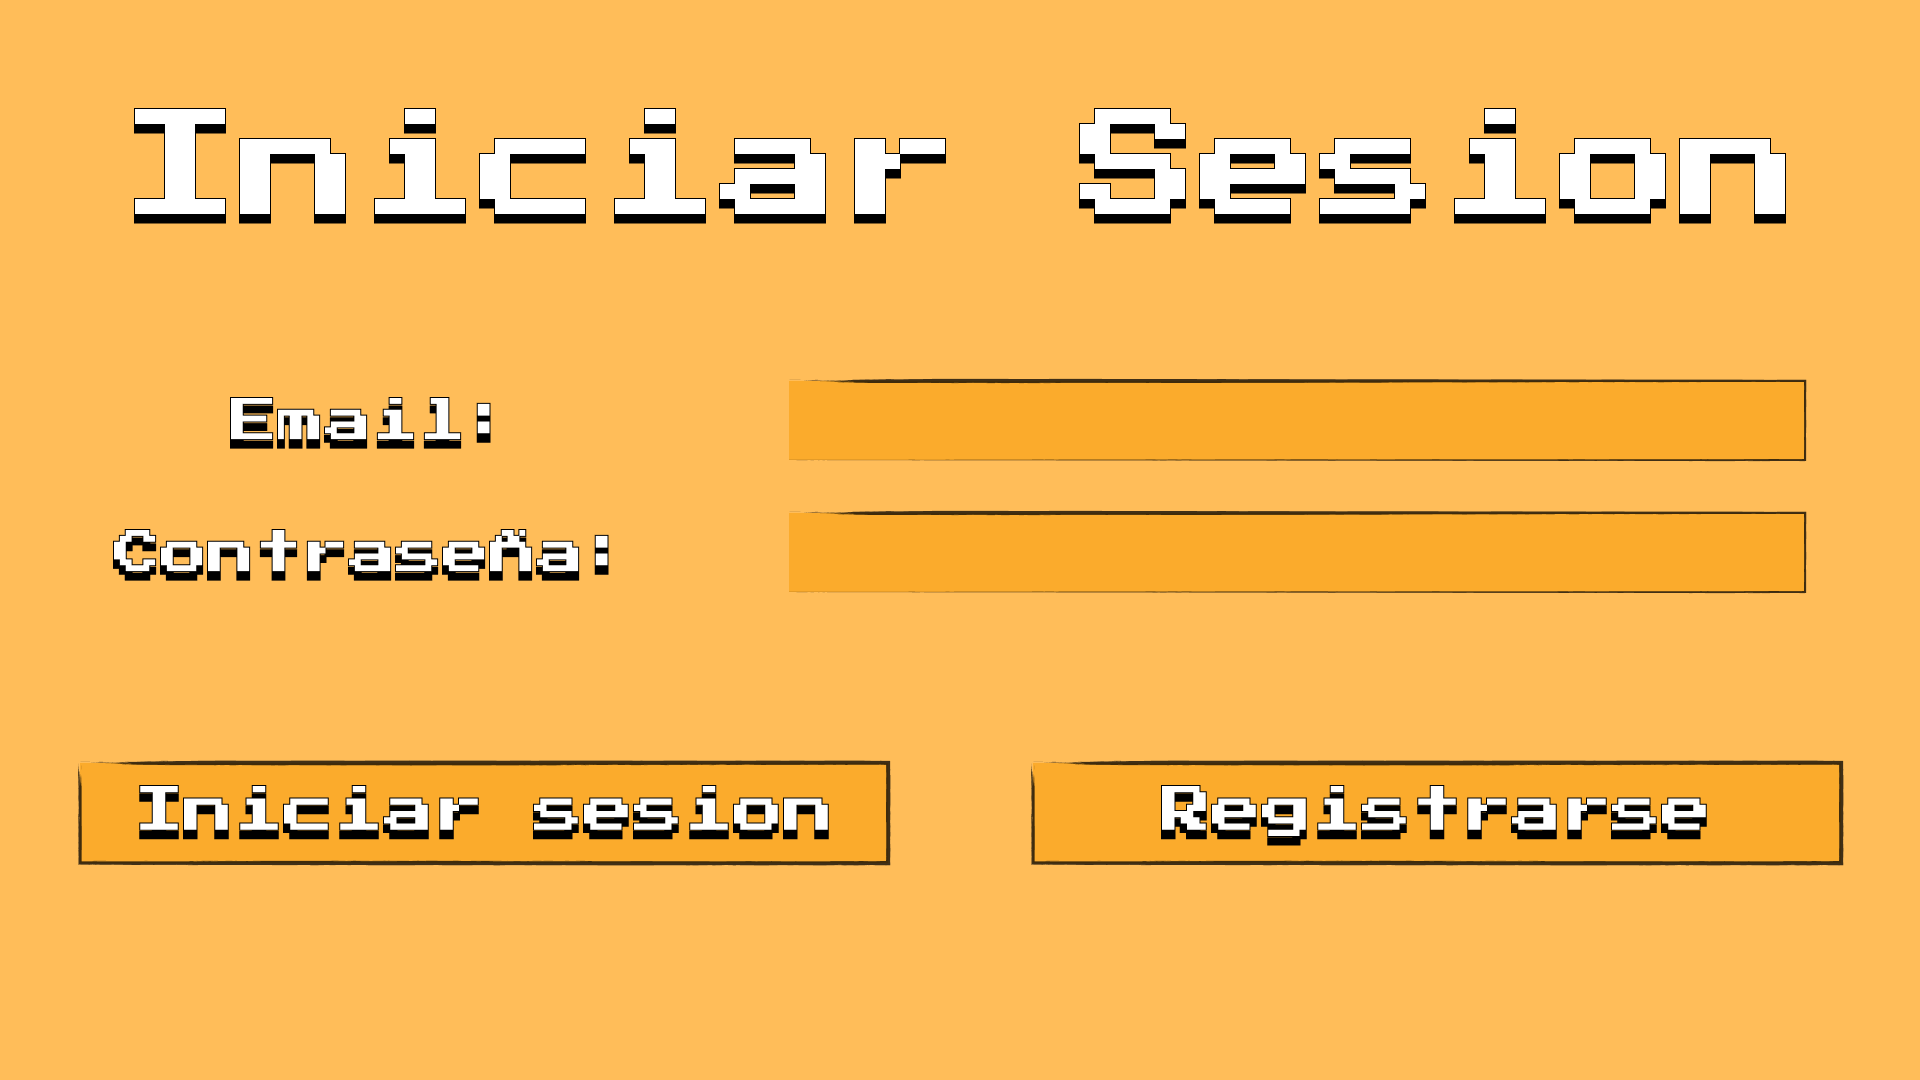
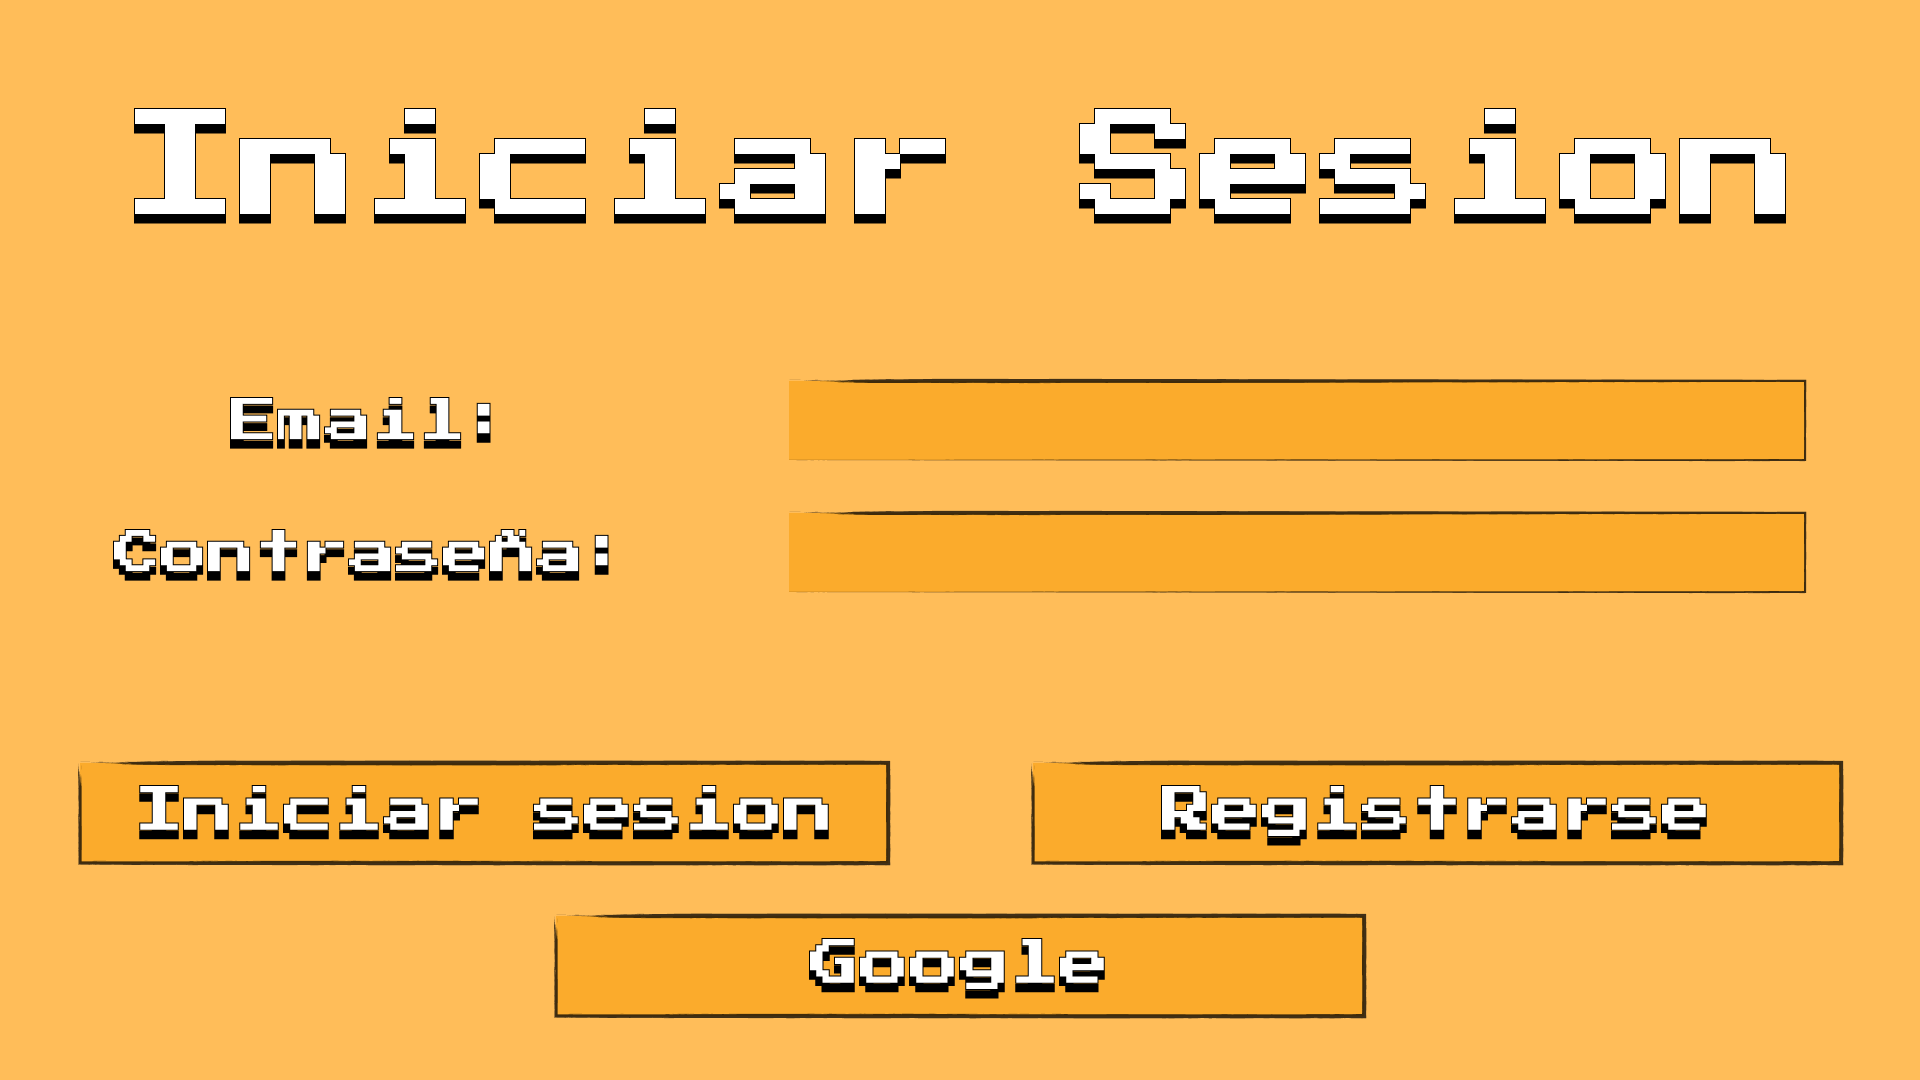
comit

Changed region(s): [[0.2812, 0.825, 0.7188, 0.9472]]

diff --git a/Sizzle!/Assets/Scripts/Backend/AuthManager.cs b/Sizzle!/Assets/Scripts/Backend/AuthManager.cs
@@ -28,4 +28,12 @@ public static class AuthService
         if (_provider == null) { onResult?.Invoke(false, "AuthService no inicializado"); return; }
         _provider.Register(username, email, password, onResult);
     }
+
+    public static void StartGoogleLogin(Action<bool, string> onResult)
+    {
+        if (_provider is WebAuthProvider web)
+            web.StartGoogleLogin(onResult);
+        else
+            onResult?.Invoke(false, "Proveedor no soporta Google");
+    }
 }

diff --git a/Sizzle!/Assets/Scripts/Backend/AuthContract.cs b/Sizzle!/Assets/Scripts/Backend/AuthContract.cs
@@ -18,6 +18,6 @@ namespace Sizzle.Auth
     public static class ServerConfig
     {
         // endpoint HTTPS (ngrok durante desarrollo)
-        public const string BaseUrl = "https://edaphic-coralie-preapply.ngrok-free.dev";
+        public const string BaseUrl = "https://serversizzle.onrender.com";
     }
 }
